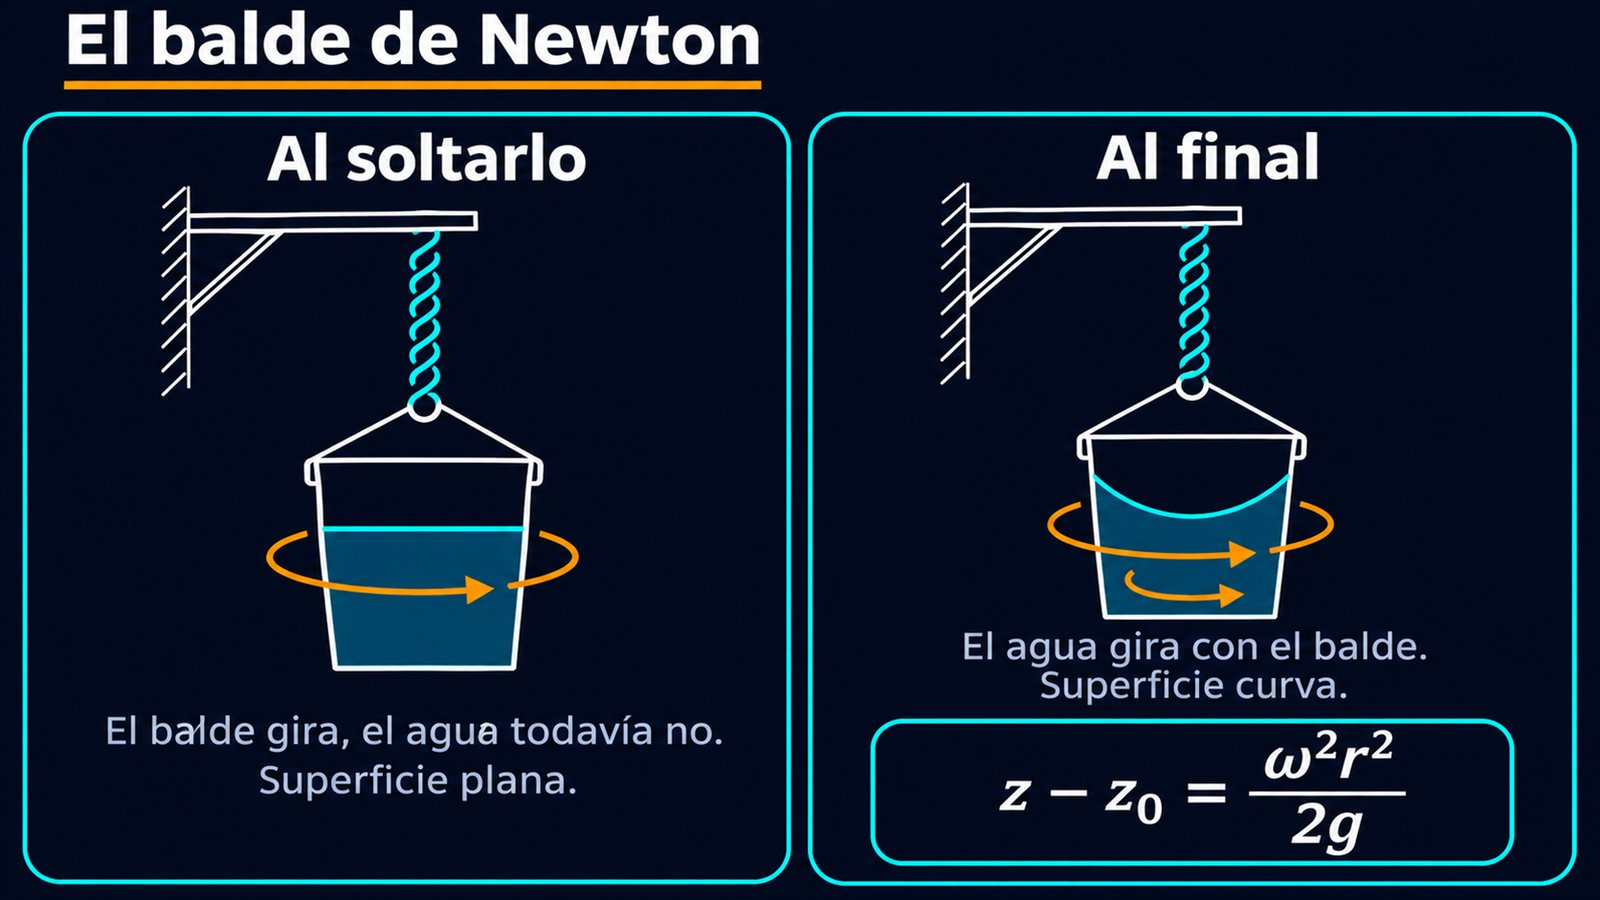
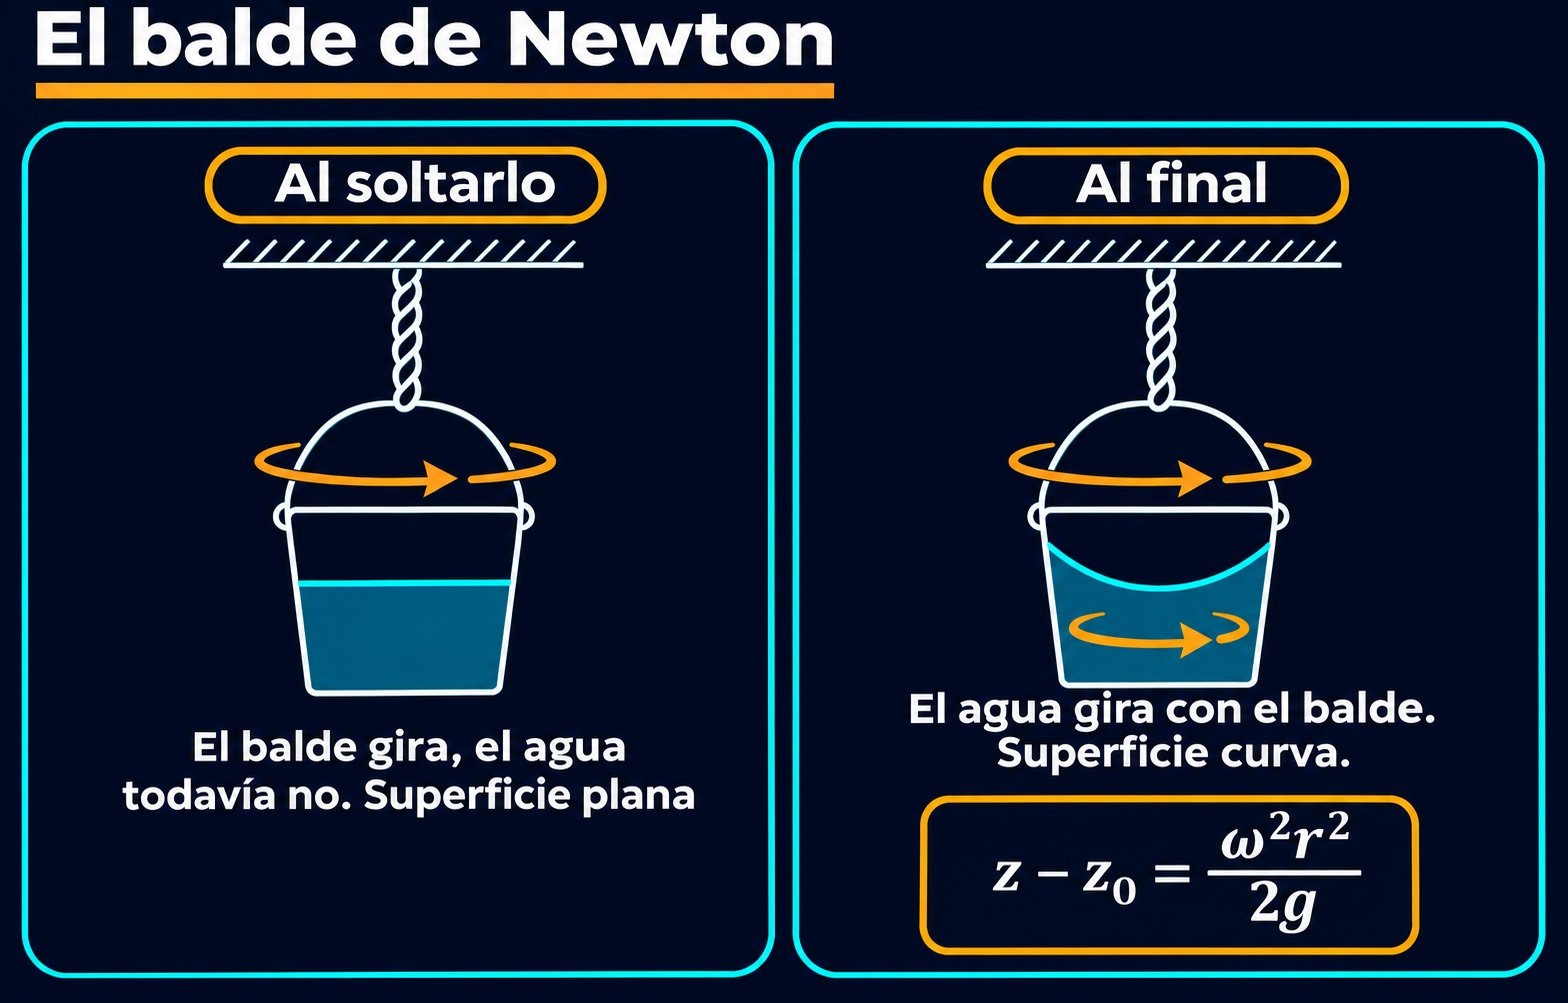
Infografía del balde de Newton regenerada, sin letras deformadas

Changed region(s): [[0.0, 0.0, 1.0, 0.9956]]

diff --git a/balde-newton.html b/balde-newton.html
@@ -93,7 +93,7 @@
   <div class="math-block">z − z<sub>0</sub> = ω² r² / (2g)<br>z: altura de la superficie a una distancia r del eje · z<sub>0</sub>: altura en el centro · ω: velocidad angular · g: gravedad</div>
   <p>Girada alrededor del eje, esa parábola es un <strong>paraboloide</strong>. La altura que sube el agua crece con el cuadrado de la velocidad de giro: si el balde gira el doble de rápido, el agua sube cuatro veces más en los bordes. Bar-Meir aplica la misma fórmula a un tubo en U que gira, en el que los dos brazos quedan a distinta altura según su distancia al eje [2].</p>
   <figure class="figura">
-    <img src="img/mecanica-fluidos/balde-newton-infografia.jpg" width="1600" height="900" loading="lazy" alt="Infografía «El balde de Newton», en dos paneles. Al soltarlo: el balde cuelga de una soga retorcida y gira, pero el agua todavía no: superficie plana. Al final: el agua gira con el balde y su superficie es curva, más alta en los bordes. Debajo, la fórmula z − z₀ = ω²r²/(2g).">
+    <img src="img/mecanica-fluidos/balde-newton-infografia.jpg" width="1568" height="1003" loading="lazy" alt="Infografía «El balde de Newton», en dos paneles. Al soltarlo: el balde cuelga de una soga retorcida y gira, pero el agua todavía no: superficie plana. Al final: el agua gira con el balde y su superficie es curva, más alta en los bordes. Debajo, la fórmula z − z₀ = ω²r²/(2g).">
     <figcaption>Las dos etapas del balde que describe Newton: primero gira el balde y el agua sigue quieta y plana; después el agua gira con él y su superficie se vuelve un paraboloide, z − z₀ = ω²r²/(2g) [2].<span class="credito">Infografía: Mundo Quarks</span></figcaption>
   </figure>
   <figure class="figura" id="pab">
